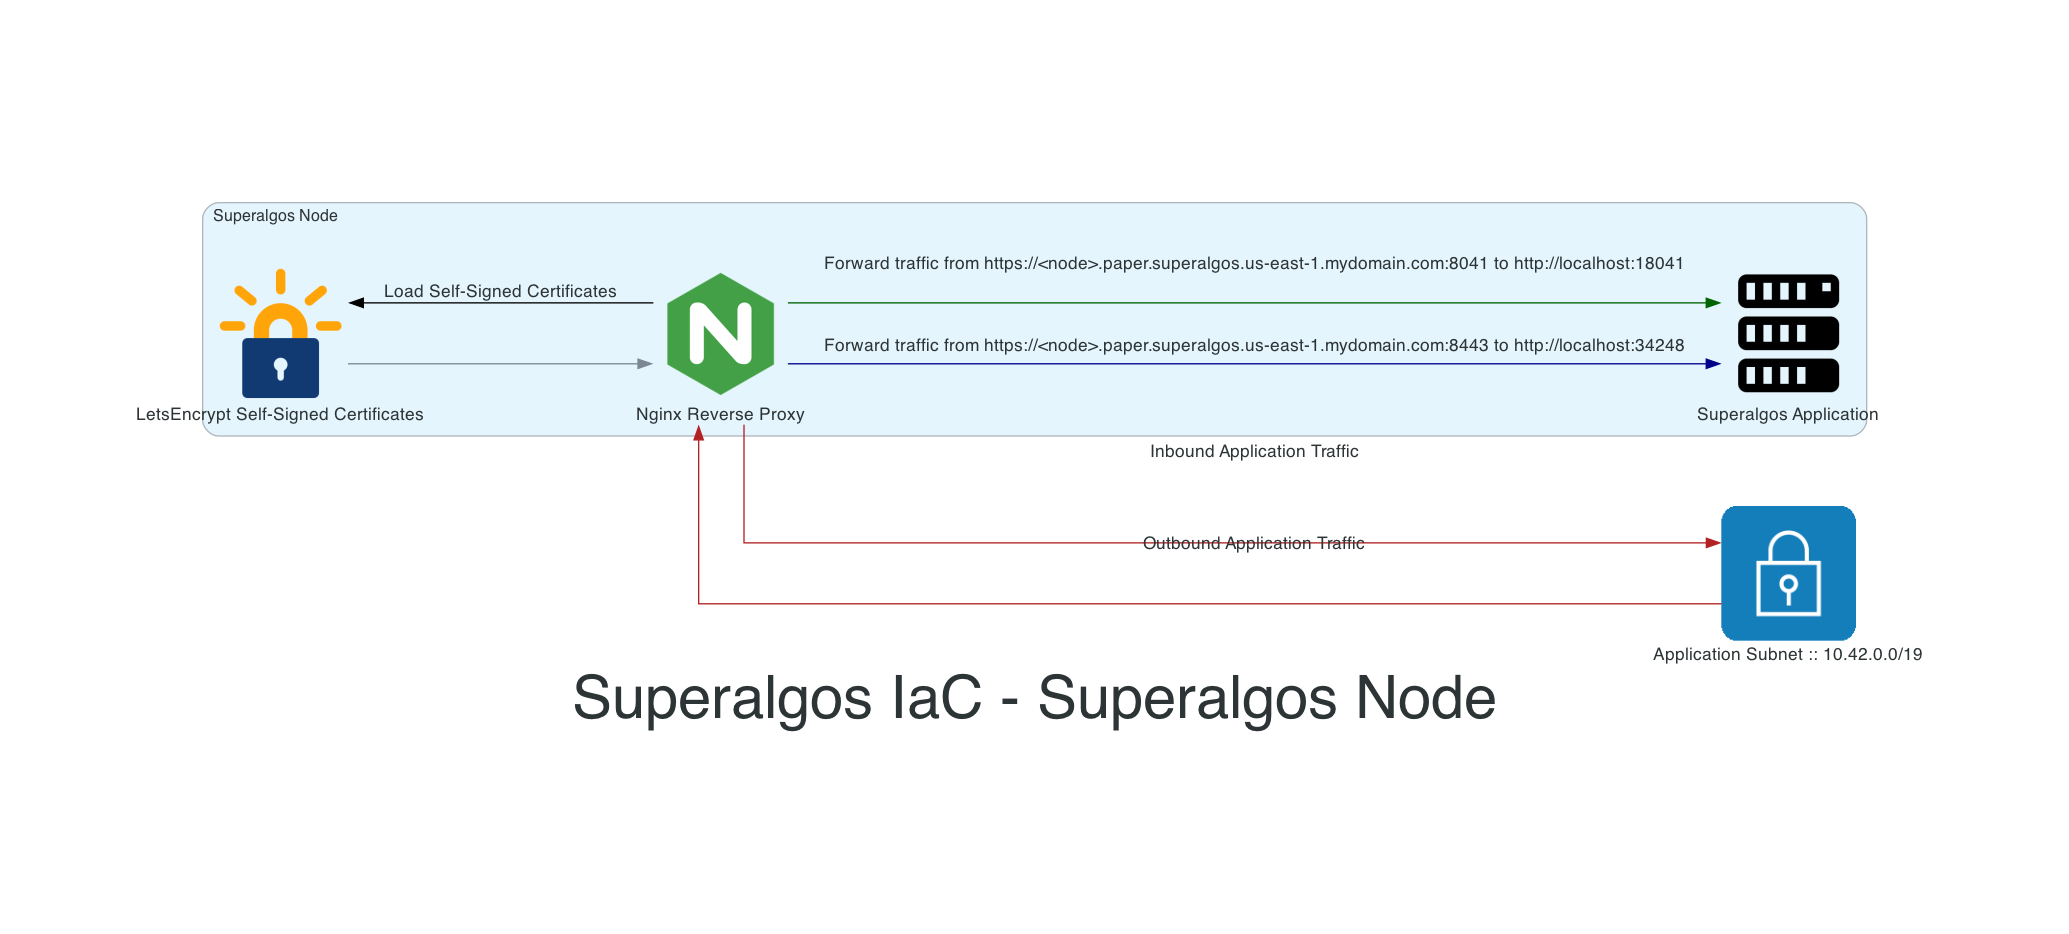
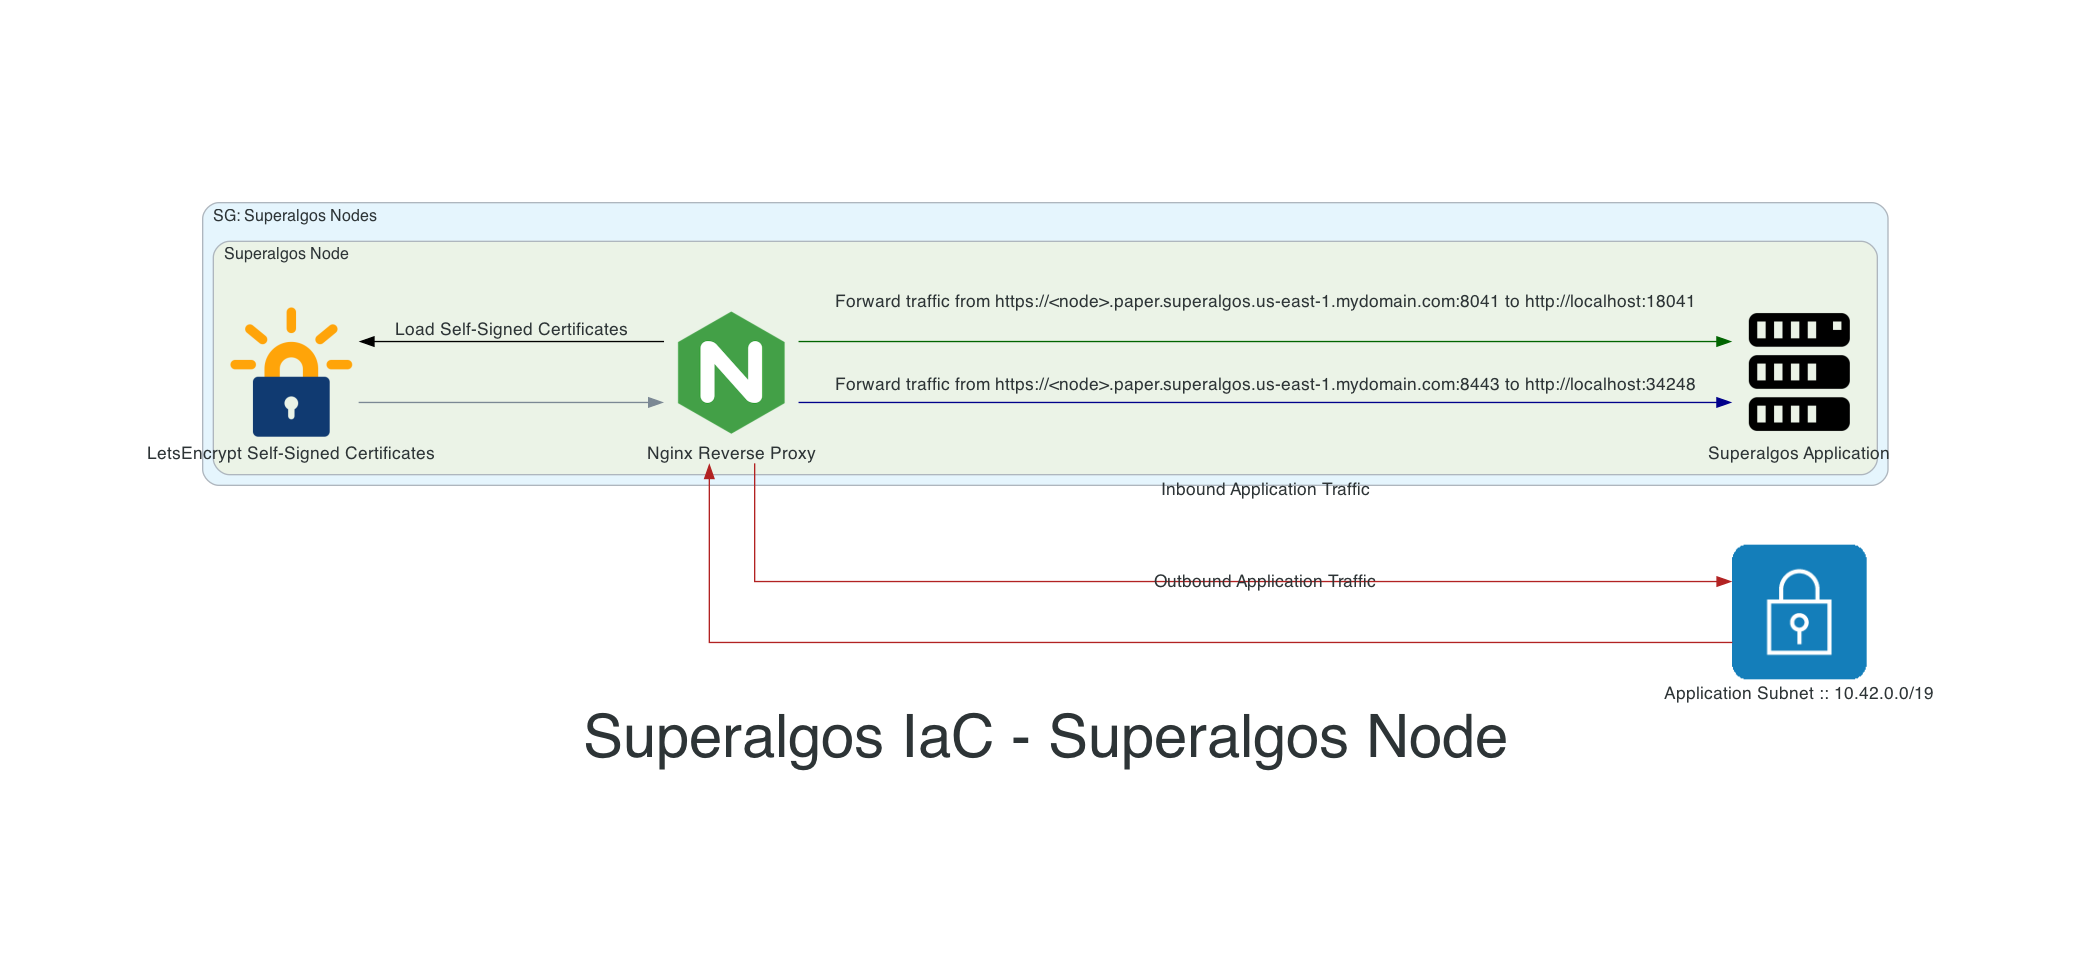
updated node diagram

Changed region(s): [[0.0619, 0.1863, 0.928, 0.7141], [0.2784, 0.7141, 0.7424, 0.8073]]

diff --git a/scripts/diagram.py b/scripts/diagram.py
@@ -232,10 +232,13 @@ def superalgosNodeDiagram(environment, region, fqdn, out_dir: str = '.', graph_a
     with Diagram("Superalgos IaC - Superalgos Node", filename=f"{out_dir}/diagram-superalgos-node-{environment}-{region}", outformat="png", show=False, graph_attr=graph_attr):
         elements = {}
         elements["subnet_application"] = PrivateSubnet(f"Application Subnet :: {application_subnet_cidr}")
-        with Cluster(f"Superalgos Node"):
-            elements["certificates"] = LetsEncrypt("LetsEncrypt Self-Signed Certificates")
-            elements["nginx"] = Nginx("Nginx Reverse Proxy")
-            elements["superalgos"] = Server("Superalgos Application")
+        elements["sg_sa_nodes"] = Cluster("SG: Superalgos Nodes")
+        with elements["sg_sa_nodes"]:
+            elements["application_node"] = Cluster(f"Superalgos Node")
+            with elements["application_node"]:
+                elements["certificates"] = LetsEncrypt("LetsEncrypt Self-Signed Certificates")
+                elements["nginx"] = Nginx("Nginx Reverse Proxy")
+                elements["superalgos"] = Server("Superalgos Application")
         #
         elements["subnet_application"] >> solidRed("Inbound Application Traffic") >> elements["nginx"]
         elements["nginx"] >> solidRed("Outbound Application Traffic") >> elements["subnet_application"]
